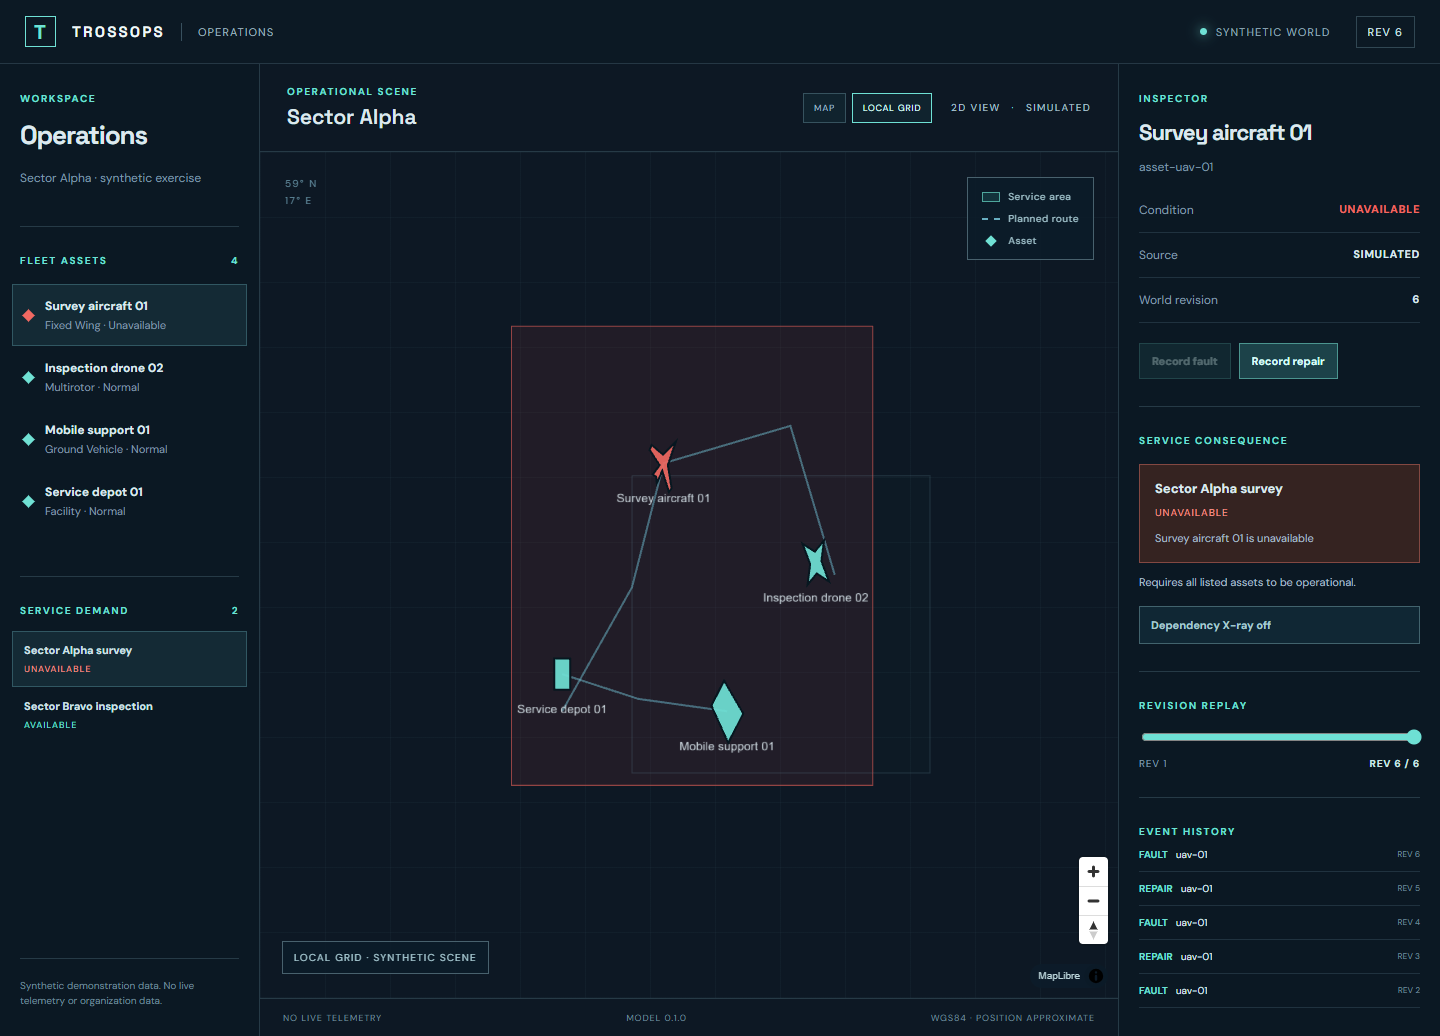
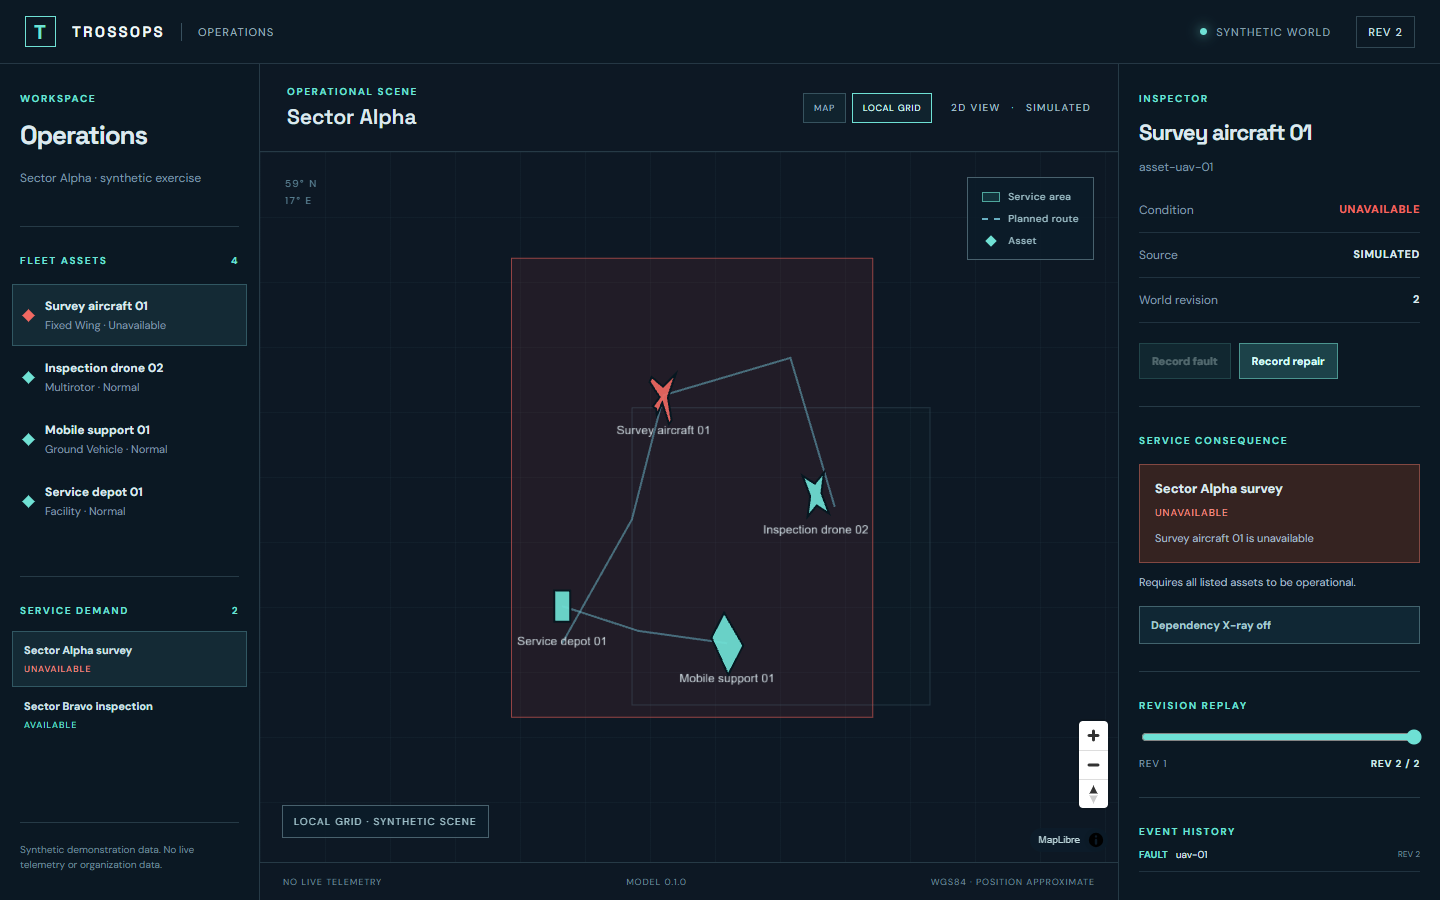
docs(scene-api): record restart persistence check

diff --git a/docs/geospatial/verification.md b/docs/geospatial/verification.md
@@ -4,11 +4,12 @@
 
 ## Executed
 
-- `cd backend; python -m pytest -q`: **2 passed**. A synthetic support fault changes revision and both computed services; revision 1 replays its prior state; health and scene endpoints respond.
+- `cd backend; python -m pytest -q`: **3 passed**. A synthetic support fault changes revision and both computed services; revision 1 replays its prior state; a file-backed event store survives a new `World` instance; health and scene endpoints respond.
 - `cd frontend; npm.cmd run build`: **passed** with MapLibre GL JS 6.14.0. Vite reports a large 2.19 MB main JS chunk; bundle splitting remains open.
 - `cd frontend; npm.cmd audit --json`: **0 vulnerabilities** after updating MapLibre from 5.x.
 - `cd frontend; node scripts/verify-local.mjs`: **passed** in installed Edge. Page errors: **0**. Verified online basemap rendering, scene load, service selection, dependency control, fault command, service change, revision replay, return to latest, and forced tile-failure fallback.
 - Direct HTTP through Vite proxy: revision 1 available → support fault revision 2 unavailable with blocker → repair revision 3 available.
+- Actual API process restart after the browser fault: revision 2, unavailable aircraft/service, and one event remained. A repair then created revision 3 and restored the service.
 
 ## Artifacts
 
@@ -18,4 +19,4 @@
 
 ## Limits
 
-The browser check exercises the synthetic in-memory API and public OpenFreeMap tiles. It does not verify persistence, real telemetry, 3D, multi-user consistency, frame time, or production deployment. No FPS claim is made. The browser script assumes Edge is installed at the standard Windows path.
+The browser check exercises the synthetic SQLite-backed API and public OpenFreeMap tiles. It does not verify hosted persistence, real telemetry, 3D, multi-user consistency, frame time, or production deployment. No FPS claim is made. The browser script assumes Edge is installed at the standard Windows path.

diff --git a/docs/geospatial/integration-matrix.md b/docs/geospatial/integration-matrix.md
@@ -2,7 +2,8 @@
 
 | Capability | Status | Evidence / next step |
 |---|---|---|
-| Synthetic scene API | partial | Snapshot, revision checked commands, and deterministic replay; add persistence and bitemporal semantics. |
+| Synthetic scene API | partial | Snapshot, revision checked commands, deterministic replay, and local SQLite persistence verified across an API restart; add hosted persistence, multi-user concurrency, and bitemporal semantics. |
+| Hosted database | planned | Connect a transactional Postgres service during deployment; current SQLite file is not suitable for serverless persistence. |
 | Service consequence | partial | Backend computes two services with a shared support dependency; extend to capacity/temporal reasoning and tests. |
 | MapLibre/deck scene | partial | GPU silhouettes, planned paths, selectable service areas, dependency toggle, revision replay, and selection verified in Edge; add LOD and performance measurements. |
 | OpenFreeMap basemap | working | Dark style loaded in Edge with attribution; public provider has no SLA. |

diff --git a/README.md b/README.md
@@ -20,7 +20,7 @@ npm.cmd install
 npm.cmd run dev
 ```
 
-Open `http://127.0.0.1:5173`. Select an asset, record a fault, and observe the revision, condition, service consequence, and event history. Select either service, reveal dependencies, scrub revisions, and switch between the online dark map and local grid. Record a repair to restore the service. Data resets when the API process restarts. See [basemap attribution](docs/geospatial/styles.md).
+Open `http://127.0.0.1:5173`. Select an asset, record a fault, and observe the revision, condition, service consequence, and event history. Select either service, reveal dependencies, scrub revisions, and switch between the online dark map and local grid. Record a repair to restore the service. The local SQLite event store survives API restarts at `backend/data/demo.sqlite` (ignored by Git). Set `TROSSOPS_DB_PATH` before starting the API to use another local path. See [basemap attribution](docs/geospatial/styles.md).
 
 ## Checks
 

diff --git a/docs/geospatial/baseline.md b/docs/geospatial/baseline.md
@@ -13,7 +13,7 @@ The repository began as an empty clone with instructions, a README, and the geos
 
 ## Risks and limitations
 
-- State is process memory; restart resets the scenario. Revision replay works, while multi-user persistence is planned.
+- Local state is an SQLite event store; a browser-driven fault was verified after an API restart. This profile is single-process and local. A hosted transactional store and multi-user concurrency are planned for deployment.
 - The map has a verified OpenFreeMap dark basemap with attribution and a local-grid fallback. Synthetic positions and overlays are not actual operational geography. Terrain and offline vector geography remain planned.
 - Entity silhouettes are GPU polygons, not geodetically sized models. GLB assets and LOD are planned.
 - No telemetry, ERP, SpacetimeDB, NATS, Cesium, external tiles, or live integrations are connected.
